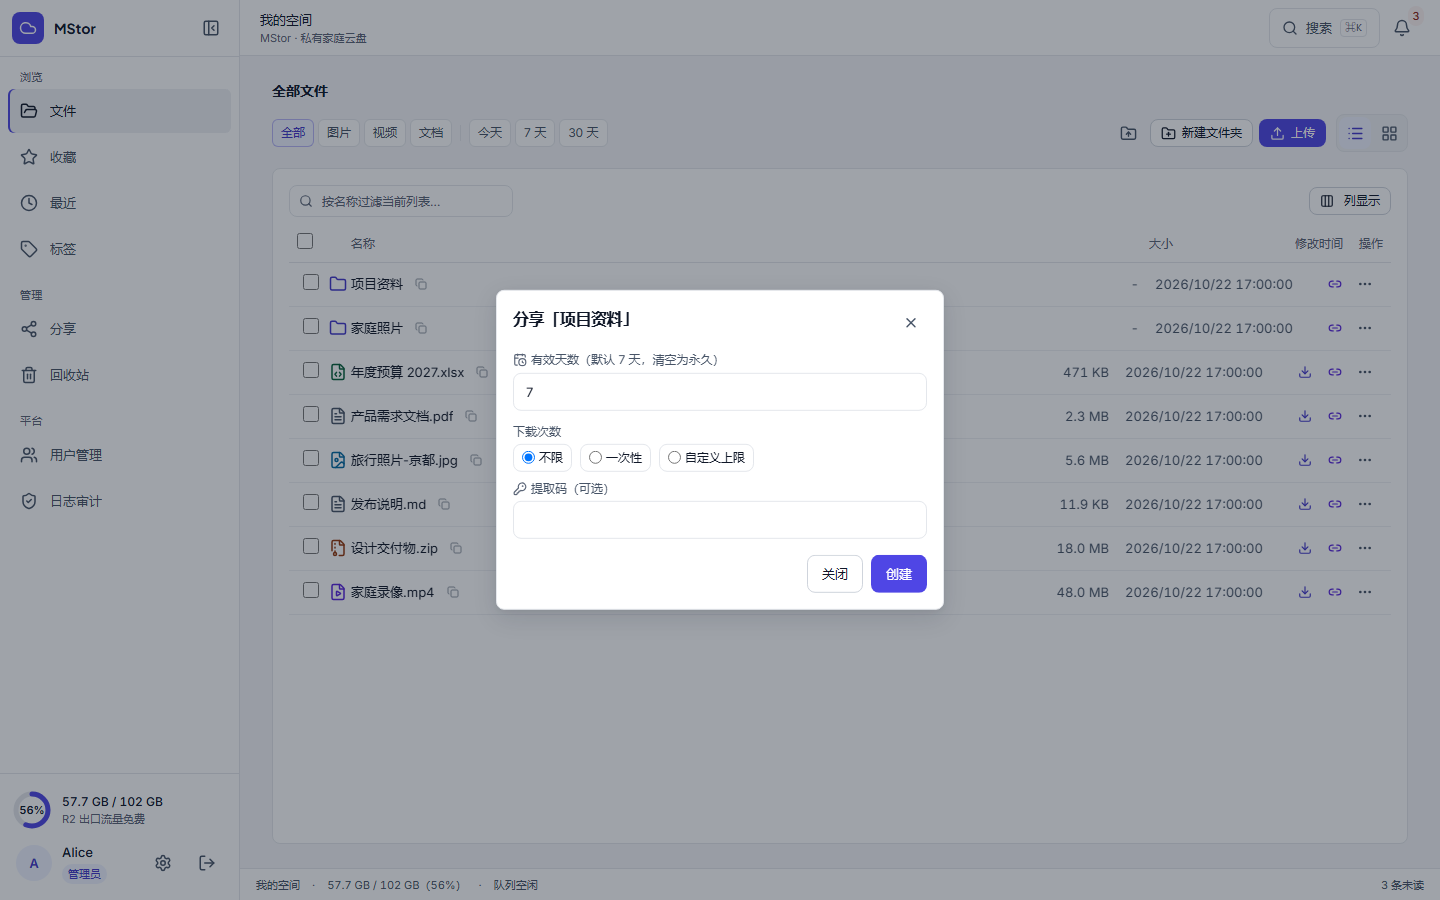
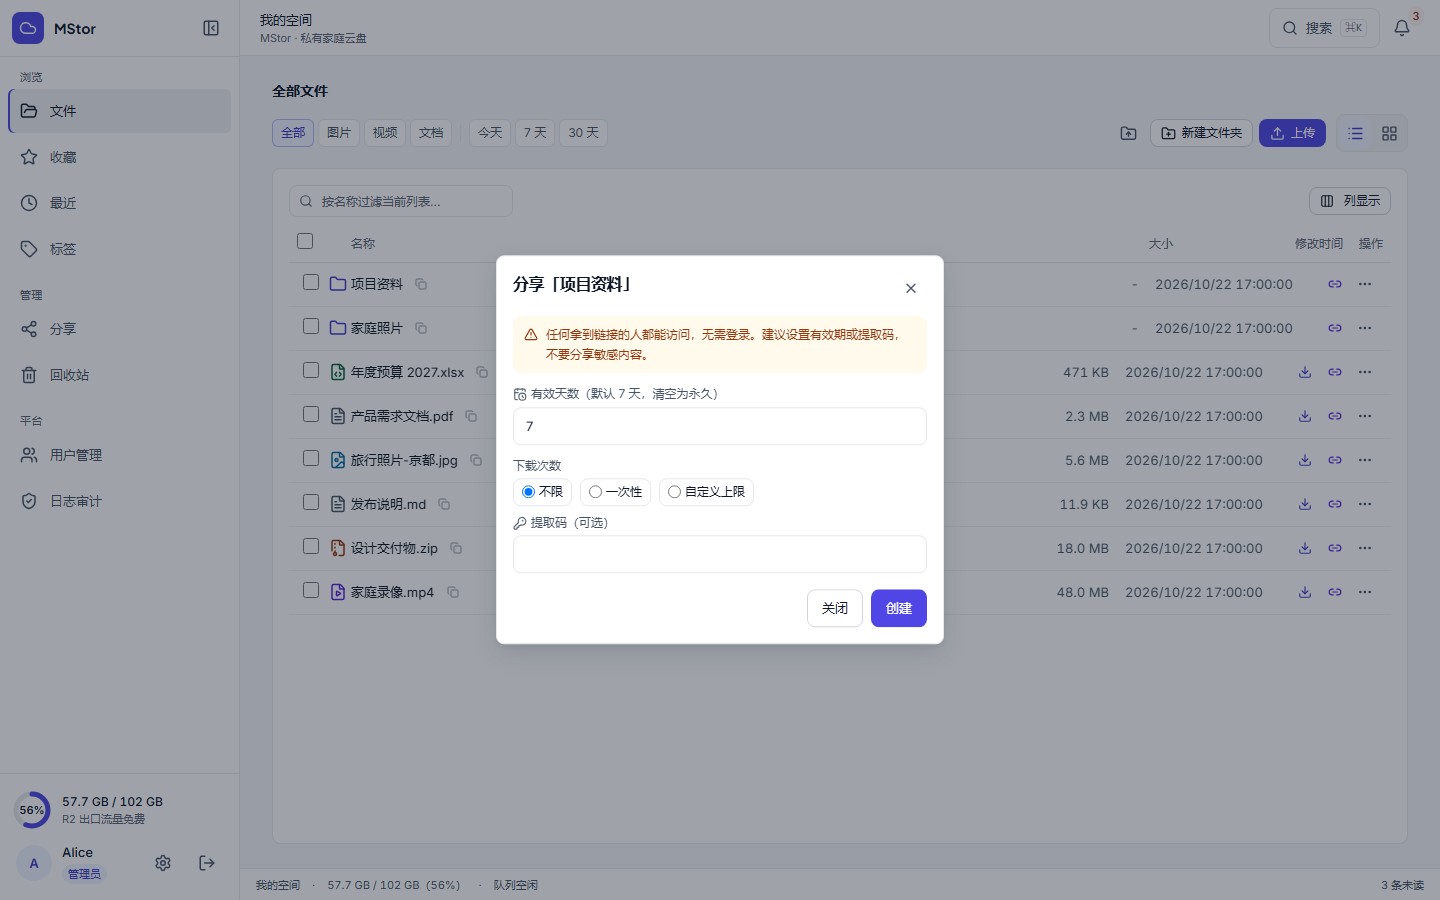
feat(shares): 匿名分享限流与体验加固
- 提取码失败按 token+IP 哈希限流：5 次/10 分钟，锁定 10 分钟；成功清零，正常访问不写 D1
- 匿名页补齐限流/过期/撤销/错误状态与重试；创建分享增加公开风险提示
- 页面 noindex/no-referrer，公开 API 加 Referrer-Policy/X-Robots-Tag
- 客户端 274 例、server 33、迁移 20、visual 22/22

diff --git a/client/src/pages/SharePage.tsx b/client/src/pages/SharePage.tsx
@@ -1,12 +1,12 @@
 import { useQuery } from "@tanstack/react-query";
 import { useState } from "react";
 import { useParams } from "react-router-dom";
-import { ApiError } from "../api/client";
+import { ApiError, friendlyMessage } from "../api/client";
 import { downloadShared, fetchShare, fetchShareChildren } from "../api/shares";
 import type { PublicNode } from "../api/types";
 import { NodeIcon } from "../components/NodeIcon";
 import { toast } from "../components/Toaster";
-import { Button, GlassCard, Input } from "../components/ui";
+import { Button, GlassCard, Input, Surface } from "../components/ui";
 import { formatBytes } from "../lib/format";
 import { queryKeys } from "../lib/queryKeys";
 
@@ -33,9 +33,11 @@ export default function SharePage() {
     retry: false,
   });
 
-  const needsPassword = info.error instanceof ApiError && info.error.code === "SHARE_PASSWORD";
-  const expired = info.error instanceof ApiError && info.error.status === 410;
-  const gone = info.error instanceof ApiError && !needsPassword && !expired && info.error.status === 404;
+  const error = info.error instanceof ApiError ? info.error : null;
+  const needsPassword = error?.code === "SHARE_PASSWORD";
+  const rateLimited = error?.code === "SHARE_RATE_LIMITED" || error?.status === 429;
+  const expired = error?.status === 410;
+  const gone = error?.status === 404 && !needsPassword && !expired;
 
   // 子目录请求同样用已提交的密码，避免实时输入影响请求
   const children = useQuery({
@@ -47,14 +49,16 @@ export default function SharePage() {
 
   if (info.isPending) return <div className="p-10 text-center text-sm text-ink-dim">加载中…</div>;
   // 已提交且因提取码失败时也回到门内，允许改码重试
-  if (needsPassword)
+  if (needsPassword && !rateLimited)
     return (
-      // 提取码门：glass-modal 卡片静态居中展示
       <div className="flex min-h-dvh items-center justify-center p-4">
-        <div className="glass-modal w-80 rounded-panel p-6 text-center">
-          <p className="mb-3 text-sm text-ink">{entered ? "提取码不正确，请重试" : "该分享需要提取码"}</p>
+        <Surface className="w-80 rounded-panel p-6 text-center">
+          <p className="mb-3 text-sm text-ink" aria-live="polite">
+            {entered ? (error?.message ?? "提取码不正确，请重试") : "该分享需要提取码"}
+          </p>
           <Input
             aria-label="提取码"
+            autoComplete="off"
             value={password}
             onChange={(e) => setPassword(e.target.value)}
           />
@@ -68,12 +72,46 @@ export default function SharePage() {
           >
             解锁
           </Button>
-        </div>
+          <p className="mt-3 text-2xs text-ink-3">提取码由分享者提供；连续失败会暂时限制尝试。</p>
+        </Surface>
       </div>
     );
-  if (expired || gone)
-    return <div className="flex min-h-dvh items-center justify-center p-4 text-center text-sm text-ink-dim">{info.error?.message}</div>;
-  if (info.error) return <div className="flex min-h-dvh items-center justify-center p-4 text-center text-sm text-ink-dim">加载失败：{info.error.message}</div>;
+  if (rateLimited) {
+    return (
+      <div className="flex min-h-dvh items-center justify-center p-4">
+        <Surface className="w-80 rounded-panel p-6 text-center">
+          <h1 className="text-base font-semibold text-ink">尝试次数过多</h1>
+          <p className="mt-2 text-sm leading-relaxed text-ink-2">请稍后再试，或联系分享者重新生成链接。</p>
+        </Surface>
+      </div>
+    );
+  }
+  if (expired || gone) {
+    return (
+      <div className="flex min-h-dvh items-center justify-center p-4">
+        <Surface className="w-80 rounded-panel p-6 text-center">
+          <h1 className="text-base font-semibold text-ink">{gone ? "分享链接不存在" : "分享链接不可用"}</h1>
+          <p className="mt-2 text-sm leading-relaxed text-ink-2">
+            {gone ? "链接可能已被撤销，请向分享者确认。" : (error?.message ?? "分享已过期或已失效，请联系分享者。")}
+          </p>
+        </Surface>
+      </div>
+    );
+  }
+  if (error) {
+    return (
+      <div className="flex min-h-dvh items-center justify-center p-4">
+        <Surface className="w-80 rounded-panel p-6 text-center">
+          <h1 className="text-base font-semibold text-ink">打开分享失败</h1>
+          <p className="mt-2 text-sm leading-relaxed text-ink-2">{friendlyMessage(error)}</p>
+          <Button className="mt-4 w-full" onClick={() => void info.refetch()}>
+            重试
+          </Button>
+          <p className="mt-3 text-2xs text-ink-3">如果仍无法打开，请联系分享者重新生成链接。</p>
+        </Surface>
+      </div>
+    );
+  }
   if (!info.data) return null;
 
   // 文件夹分享：current 决定层级；单文件分享：仅展示自身（id 来自 ShareInfo，供拼 raw 下载）
@@ -85,8 +123,8 @@ export default function SharePage() {
 
   const download = (f: PublicNode) => {
     // 用「已提交」的提取码：用户解锁后又在输入框里改了值但未再次提交时，下载不能拿实时输入
-    downloadShared(token, f.id, f.name, usedPassword || undefined).catch((e: unknown) => {
-      toast(e instanceof Error ? e.message : "下载失败");
+    downloadShared(token, f.id, f.name, usedPassword || undefined).catch(() => {
+      toast("下载失败，请检查网络后重试", "error");
     });
   };
 

diff --git a/server/data/shares.ts b/server/data/shares.ts
@@ -10,6 +10,10 @@ import type { ShareRow } from "../types";
  * - 同来源 10 分钟内只计一次（dedupe_key 唯一索引），防下载管理器/重试重复计入。
  */
 const DEDUPE_WINDOW_MS = 10 * 60_000;
+// 分享提取码尝试限制：同 token+IP 10 分钟内最多 5 次失败，锁定 10 分钟
+const AUTH_WINDOW_MS = 10 * 60_000;
+const AUTH_BLOCK_MS = 10 * 60_000;
+const AUTH_MAX_FAILURES = 5;
 
 async function sha256Hex(input: string): Promise<string> {
   const buf = await crypto.subtle.digest("SHA-256", new TextEncoder().encode(input));
@@ -21,6 +25,46 @@ async function sourceFingerprint(c: Context<AppEnv>): Promise<{ ipHash: string; 
   const ip = c.req.header("cf-connecting-ip") ?? c.req.header("x-forwarded-for") ?? "unknown";
   const ua = c.req.header("user-agent") ?? "unknown";
   return { ipHash: await sha256Hex(ip), uaHash: await sha256Hex(ua) };
+}
+
+async function authAttemptKey(c: Context<AppEnv>, token: string): Promise<string> {
+  const ip = c.req.header("cf-connecting-ip") ?? c.req.header("x-forwarded-for") ?? "unknown";
+  return sha256Hex(`share-auth|${token}|${ip}`);
+}
+
+/** 提取码校验前置：已锁定则直接 429，避免继续跑 PBKDF2。 */
+export async function assertSharePasswordAllowed(c: Context<AppEnv>, token: string): Promise<void> {
+  const key = await authAttemptKey(c, token);
+  const row = await c.env.DB.prepare(
+    "SELECT blocked_until FROM share_auth_attempts WHERE key = ?1",
+  ).bind(key).first<{ blocked_until: number | null }>();
+  if (row?.blocked_until && row.blocked_until > Date.now()) {
+    throw new HttpError(429, "SHARE_RATE_LIMITED", "提取码尝试次数过多，请稍后再试");
+  }
+}
+
+/** 记录一次错误提取码；达到阈值时返回 true（调用方应返回 429）。 */
+export async function recordSharePasswordFailure(c: Context<AppEnv>, token: string): Promise<boolean> {
+  const key = await authAttemptKey(c, token);
+  const now = Date.now();
+  const row = await c.env.DB.prepare(
+    "SELECT failures, window_start FROM share_auth_attempts WHERE key = ?1",
+  ).bind(key).first<{ failures: number; window_start: number }>();
+  const inWindow = row && now - row.window_start < AUTH_WINDOW_MS;
+  const failures = inWindow ? row.failures + 1 : 1;
+  const windowStart = inWindow ? row.window_start : now;
+  const blockedUntil = failures >= AUTH_MAX_FAILURES ? now + AUTH_BLOCK_MS : null;
+  await c.env.DB.prepare(
+    `INSERT INTO share_auth_attempts (key, failures, window_start, blocked_until)
+     VALUES (?1, ?2, ?3, ?4)
+     ON CONFLICT(key) DO UPDATE SET failures = excluded.failures, window_start = excluded.window_start, blocked_until = excluded.blocked_until`,
+  ).bind(key, failures, windowStart, blockedUntil).run();
+  return blockedUntil !== null;
+}
+
+export async function clearSharePasswordFailures(c: Context<AppEnv>, token: string): Promise<void> {
+  const key = await authAttemptKey(c, token);
+  await c.env.DB.prepare("DELETE FROM share_auth_attempts WHERE key = ?1").bind(key).run();
 }
 
 export type DownloadSlot = "counted" | "deduped";

diff --git a/server/routes/shares.ts b/server/routes/shares.ts
@@ -6,7 +6,7 @@ import { pbkdf2Hash, pbkdf2Verify, randomToken } from "../lib/crypto";
 import { getNode, isDescendant, listChildren } from "../lib/nodes";
 import { parseIds } from "../data/trash";
 import { serveObject } from "../lib/serve";
-import { isDownloadIntent, releaseDownloadSlot, takeDownloadSlot } from "../data/shares";
+import { assertSharePasswordAllowed, clearSharePasswordFailures, isDownloadIntent, recordSharePasswordFailure, releaseDownloadSlot, takeDownloadSlot } from "../data/shares";
 import { auditStmt, recordAudit } from "../lib/audit";
 import type { NodeRow, ShareRow } from "../types";
 
@@ -122,10 +122,15 @@ async function loadShare(c: Context<AppEnv>, token: string): Promise<{ share: Sh
     .bind(share.node_id).first<NodeRow>();
   if (!node) throw errors.notFound();
   if (share.password_hash) {
+    await assertSharePasswordAllowed(c, token);
     const pw = c.req.header("x-share-password");
-    if (!pw || !(await pbkdf2Verify(pw, share.password_hash))) {
-      throw new HttpError(401, "SHARE_PASSWORD", "需要提取码");
+    if (!pw) throw new HttpError(401, "SHARE_PASSWORD", "需要提取码");
+    if (!(await pbkdf2Verify(pw, share.password_hash))) {
+      const blocked = await recordSharePasswordFailure(c, token);
+      if (blocked) throw new HttpError(429, "SHARE_RATE_LIMITED", "提取码尝试次数过多，请稍后再试");
+      throw new HttpError(401, "SHARE_PASSWORD", "提取码不正确，请重试");
     }
+    await clearSharePasswordFailures(c, token);
   }
   return { share, node };
 }

diff --git a/client/src/components/ShareDialog.tsx b/client/src/components/ShareDialog.tsx
@@ -1,6 +1,6 @@
 import { useState } from "react";
 import { useQueryClient } from "@tanstack/react-query";
-import { CalendarClock, KeyRound, Link2 } from "lucide-react";
+import { CalendarClock, KeyRound, Link2, TriangleAlert } from "lucide-react";
 import { renderSVG } from "uqr";
 import { createShare } from "../api/shares";
 import type { Node } from "../api/types";
@@ -83,6 +83,10 @@ export default function ShareDialog({ node, onClose }: Props) {
         </>
       ) : (
         <>
+          <div role="note" className="mb-3 flex gap-2 rounded-btn border border-warn-soft bg-warn-soft px-2.5 py-2 text-xs leading-relaxed text-warn-text">
+            <TriangleAlert size={14} aria-hidden className="mt-0.5 shrink-0" />
+            <span>任何拿到链接的人都能访问，无需登录。建议设置有效期或提取码，不要分享敏感内容。</span>
+          </div>
           <label className="block text-xs text-ink-2">
             <span className="flex items-center gap-1">
               <CalendarClock size={14} aria-hidden className="text-ink-3" />

diff --git a/client/src/pages/SharePage.test.tsx b/client/src/pages/SharePage.test.tsx
@@ -87,6 +87,13 @@ test("wrong password keeps gate open and can retry", async () => {
   expect(fetchShare).toHaveBeenLastCalledWith("tok123", "8888");
 });
 
+test("shows a dedicated state when password attempts are rate limited", async () => {
+  vi.mocked(fetchShare).mockRejectedValue(new ApiError(429, "SHARE_RATE_LIMITED", "提取码尝试次数过多"));
+  renderWith(<SharePage />);
+  expect(await screen.findByText("尝试次数过多")).toBeInTheDocument();
+  expect(screen.getByText(/稍后再试/)).toBeInTheDocument();
+});
+
 test("shows expired and revoked states", async () => {
   vi.mocked(fetchShare).mockRejectedValue(new ApiError(410, "SHARE_EXPIRED", "分享已过期"));
   renderWith(<SharePage />);

diff --git a/client/index.html b/client/index.html
@@ -6,7 +6,9 @@
     <link rel="icon" type="image/svg+xml" href="/icon.svg" />
     <link rel="icon" type="image/png" sizes="192x192" href="/icon-192.png" />
     <link rel="apple-touch-icon" sizes="180x180" href="/apple-touch-icon.png" />
-    <meta name="theme-color" content="#f4f6f4" />
+    <meta name="theme-color" content="#f5f6f8" />
+    <meta name="robots" content="noindex,nofollow" />
+    <meta name="referrer" content="no-referrer" />
     <title>MStor</title>
   </head>
   <body>

diff --git a/docs/ux-refactor-report.md b/docs/ux-refactor-report.md
@@ -559,7 +559,7 @@
 - 逐组件评估文件选择、列表布局、操作入口、工具栏、侧栏/顶栏、命令面板、弹窗、批量条、空态/加载态。
 - 操作入口：关键动作直接展示（桌面下载+分享+更多，移动下载+更多），次要动作折叠进菜单；菜单补收藏，统一 useNodeActions。
 - 选择能力：批量勾选、Shift 范围、Ctrl/Cmd+A、长按、Esc、空白区域鼠标框选均已具备；框选支持 Shift/Ctrl 追加。
-- 评分与优先级见 docs/component-ux-audit.md；客户端 273 例、server 32、visual 22/22。
+- 评分与优先级见 docs/component-ux-audit.md；客户端 274 例、server 33、visual 22/22。
 
 ### 19.19 act-as 重复审计修复
 
@@ -572,7 +572,7 @@
 - 现象：20 条审计记录时表格最后几行被 StatusBar 遮住，表头在滚动时不可用。
 - 根因：AppShell main 只有 min-h-0 没有 overflow；AuditTable 没有自己的滚动区；视觉 mock 只有 3 行，基线没有暴露。
 - 修复：main 统一 overflow-y-auto + overscroll-contain；审计页 flex 填满、表格区 md:overflow-auto；sticky 改用 th + bg + z + border-separate（修复滚动时数据行透出表头）；20 行且滚到中段的 fixture 入视觉基线；补邀请动作标签。
-- 客户端 273 例、server 32、visual 22/22。
+- 客户端 274 例、server 33、visual 22/22。
 
 ### 19.21 视频缩略图与预览
 
@@ -587,23 +587,30 @@
 - 覆盖：act-as、管理员用户/设置、邀请、分享创建/撤销、文件删除/恢复/彻底删除/移动/复制、成员角色/移除。
 - 仍未覆盖登录/下载/查看审计本身；查询分页与保留完整性为下一步。
 - 设置页增加平台管理员可见的「审计日志」开关（settings.audit_enabled，默认开启）；关闭后服务端 auditStmt no-op，历史保留，30s isolate 缓存收敛；开关变更本身仍留痕。
-- 服务端测试 32 项、客户端 273 例、visual 22/22；详见 docs/audit-system-analysis.md。
+- 服务端测试 33 项、客户端 274 例、visual 22/22；详见 docs/audit-system-analysis.md。
 
-### 19.25 个人云盘收敛与注册审核
+### 19.25 公开分享安全与匿名体验
+
+- 提取码尝试限流：token+IP 哈希，5 次/10 分钟，锁定 10 分钟；正常访问不写 D1。
+- 匿名页：错误/限流/过期/撤销/通用失败分别有明确状态与重试；创建分享加入风险提示。
+- 页面 noindex/no-referrer，公开 API 加 Referrer-Policy/X-Robots-Tag。
+- 客户端 274 例、server 33、visual 22/22；详见 docs/share-security.md。
+
+### 19.26 个人云盘收敛与注册审核
 
 - 按确认裁剪空间成员：设置移除「成员」入口，侧栏/移动抽屉移除空间切换；只保留每个用户一个私有空间与外链分享。
 - 注册审核：migration 0019 增加 users.approved_at；默认需要审核，待审核用户只看到等待页；管理员在用户管理按「待审核」筛选并通过。
 - 注册设置：允许注册、注册后需要审核、默认额度 1GB 均可配置；关闭审核则注册即用。
 - 修复每日 cron 里旧 v1 schema 的 users.used_bytes/owner_id 查询，改为校准 workspaces.used_bytes；生产已校准 4 个 workspace。
 - R2 总预算维持 10GB（global quota），新用户个人空间默认 1GB，后期可扩展。
-- 客户端 273 例、server 32、visual 22/22。
+- 客户端 274 例、server 33、visual 22/22。
 
 ### 19.26 身份、注册与空间共享评估
 
 - act-as 时侧栏/移动抽屉改用目标用户姓名与头像，并显示「管理员代管」；管理员导航仍保留，避免丢失退出入口。
 - 设置新增「访问」分区（平台管理员）：允许新用户注册、新用户默认空间额度（默认 1GB，1GB-1TB）；注册关闭时未知 Access 身份 403，已有账号不受影响。
 - 空间共享评估：不建议直接删除共享；建议默认个人隔离 + 显式共享空间 + 独立外链分享。详见 docs/workspace-sharing-analysis.md。
-- 客户端 273 例、server 32、visual 22/22。
+- 客户端 274 例、server 33、visual 22/22。
 
 ### 19.23 PWA 静默更新
 

diff --git a/docs/share-security.md b/docs/share-security.md
@@ -1,0 +1,61 @@
+# 公开分享安全与匿名体验
+
+> 产品决策：公开分享允许匿名访问；每个用户一个私有空间，不再提供空间成员/邀请。
+
+## 1. 已有保护
+
+- token 16 字节随机（base64url），不可枚举；
+- 可选提取码 PBKDF2-SHA256 100k；
+- 有效期、下载次数上限、撤销；
+- 下载次数原子扣减；同来源 10 分钟去重，Range/预览不计数；
+- 分享创建/撤销写入审计；
+- 公开接口在 Access 认证之前注册，匿名可访问 /api/s/*。
+
+## 2. 本轮加固
+
+### 提取码尝试限流
+
+- 维度：token + IP 哈希（不存原始 IP）；
+- 10 分钟内最多 5 次错误；
+- 达到阈值后锁定 10 分钟，锁定期间即使提取码正确也返回 429；
+- 成功解锁后清除失败记录；
+- 只对错误尝试写 D1，正常访问不增加写入；
+- 失败记录每日 cron 清理。
+
+### 匿名页体验
+
+- 提取码错误、次数过多、过期、撤销、通用加载失败分别有独立文案；
+- 通用错误提供「重试」，不直接暴露技术错误；
+- 下载失败提示“检查网络后重试”；
+- 创建分享时明确提示“任何拿到链接的人都能访问”。
+
+### 不被索引/不泄露来源
+
+- 页面 meta：noindex、no-referrer；
+- 公开 API 响应：Referrer-Policy、X-Robots-Tag；
+- 分享页不展示内部路径/数据库 id。
+
+## 3. 仍需 Cloudflare 侧配置
+
+应用层限流只能保护提取码尝试，建议在 Cloudflare 控制台增加：
+
+- 对 /s/* 的 WAF Rate Limiting（按 IP，阈值按家庭规模调整）；
+- 对异常 UA/爬虫的 Bot Fight Mode 或自定义规则；
+- 可选 Turnstile：在连续失败后要求人机验证。
+
+这些规则无法由 Worker 代码替代，也不会自动出现在仓库里。
+
+## 4. 已知边界
+
+- 受密码保护的下载仍通过 fetch + blob（因为 a 标签不能带 header），超大文件会占用浏览器内存；后续可设计短期签名下载 URL。
+- token 分享天然是“持有链接即可访问”；这是产品接受的匿名分享模型。
+- 限流键为 token+IP，NAT 后的家庭成员可能共享额度；阈值应保持温和（当前 5 次/10 分钟）。
+- 错误尝试记录是 D1 写入；仅在失败时产生，正常访问零额外写入。
+
+## 5. 验收
+
+- 连续 5 次错误提取码后第 6 次（含正确码）返回 429；
+- 解锁成功后失败计数清零；
+- 过期/撤销/错误页不再是原始异常文案；
+- 分享页与公开 API 带 noindex/referrer 头；
+- 创建分享时风险提示 100% 触达。

diff --git a/docs/README.md b/docs/README.md
@@ -17,6 +17,7 @@
 | [d1-query-optimization.md](./d1-query-optimization.md) | D1 生产查询分析：Top SQL、索引/planner 修复、优化前后读取行数 | 记录 |
 | [audit-system-analysis.md](./audit-system-analysis.md) | 审计体系评估：act-as 重复日志根因、Cloudflare/AWS/GCP/NIST 对比、分步重构 | 记录 |
 | [workspace-sharing-analysis.md](./workspace-sharing-analysis.md) | 空间共享决策记录：收敛为个人云盘，仅保留外链分享；成员 UI 已移除 | 记录 |
+| [share-security.md](./share-security.md) | 公开分享安全：提取码限流、匿名页体验、noindex/referrer、WAF 待配置 | 记录 |
 | [../DESIGN.md](../DESIGN.md) | OpenDesign 9 段 schema 的 MStor 设计意图（色/字/间距/组件/动效/语气/品牌/反模式） | 权威 |
 
 ## 阅读顺序（新人/接手）

diff --git a/docs/d1-query-optimization.md b/docs/d1-query-optimization.md
@@ -117,7 +117,7 @@ planner 选 idx_nodes_sha(workspace_id) 全扫 workspace。
 
 - 生产迁移：0017 已执行，6 条索引创建成功；Worker 已部署（版本 3e52c7d0-c52c-457f-941f-c6d24069b84d）；
 - EXPLAIN 复核：audit 走 idx_audit_created；tree 走 idx_nodes_dirs_tree；ancestor 走 PK；membership 走覆盖索引且无 TEMP B-TREE；
-- 本地：tsc / eslint / test:server:local 32 项 / check:migrations 19 文件 / check:schema 通过。
+- 本地：tsc / eslint / test:server:local 33 项 / check:migrations 20 文件 / check:schema 通过。
 
 ## 6. 后续监控
 

diff --git a/docs/design-system.md b/docs/design-system.md
@@ -40,7 +40,7 @@ v8 借鉴并落地：
 - FileList 支持空白区域鼠标框选：固定定位矩形、命中 data-node-id 行/卡片、替换选择；Shift/Ctrl/Cmd 追加。
 - 只在粗指针为 false 且起点不在行/按钮/输入框/表头时启动，避免与行拖拽移动、触屏滚动冲突。
 - 单击空白（未拖动）清空选择；框选覆盖列表、虚拟列表与网格三种渲染路径。
-- 新增 FileList 框选用例；客户端 273 例。
+- 新增 FileList 框选用例；客户端 274 例。
 
 ### v8.3 视频缩略图与预览
 
